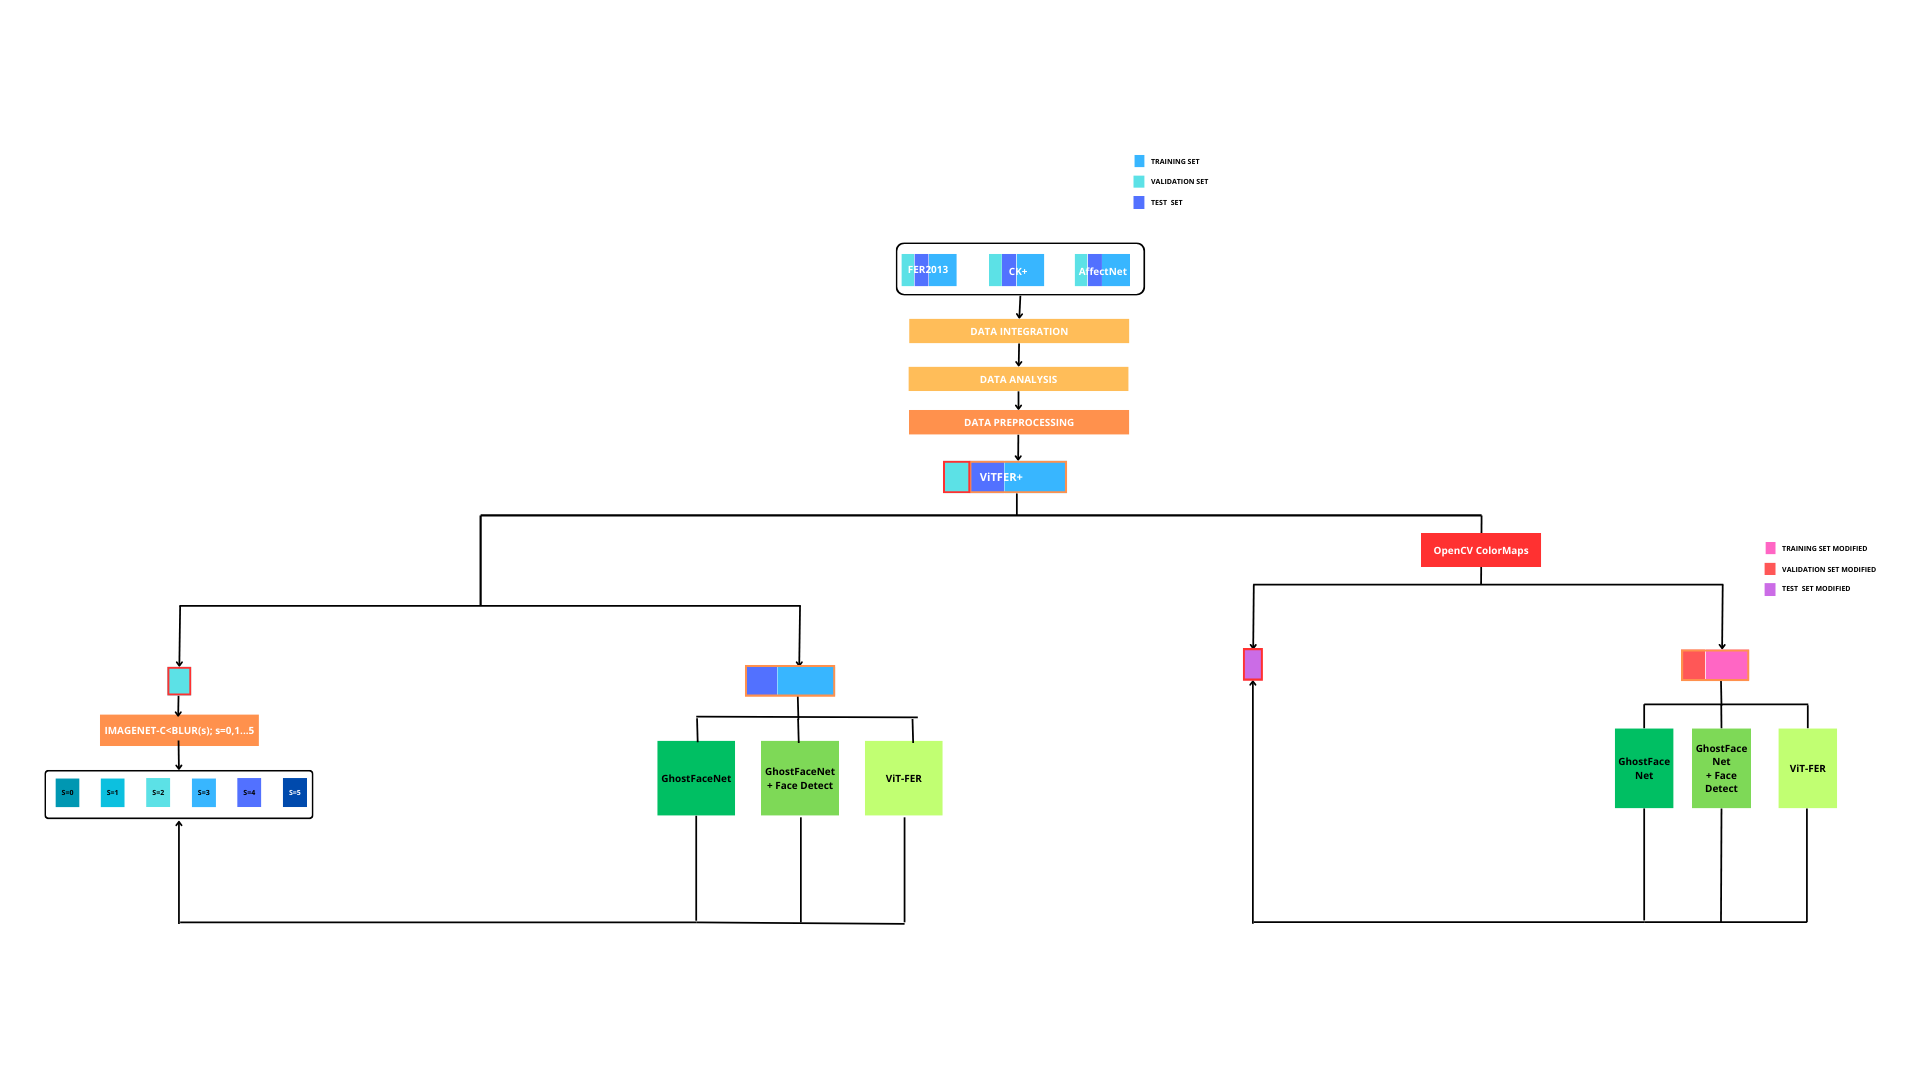
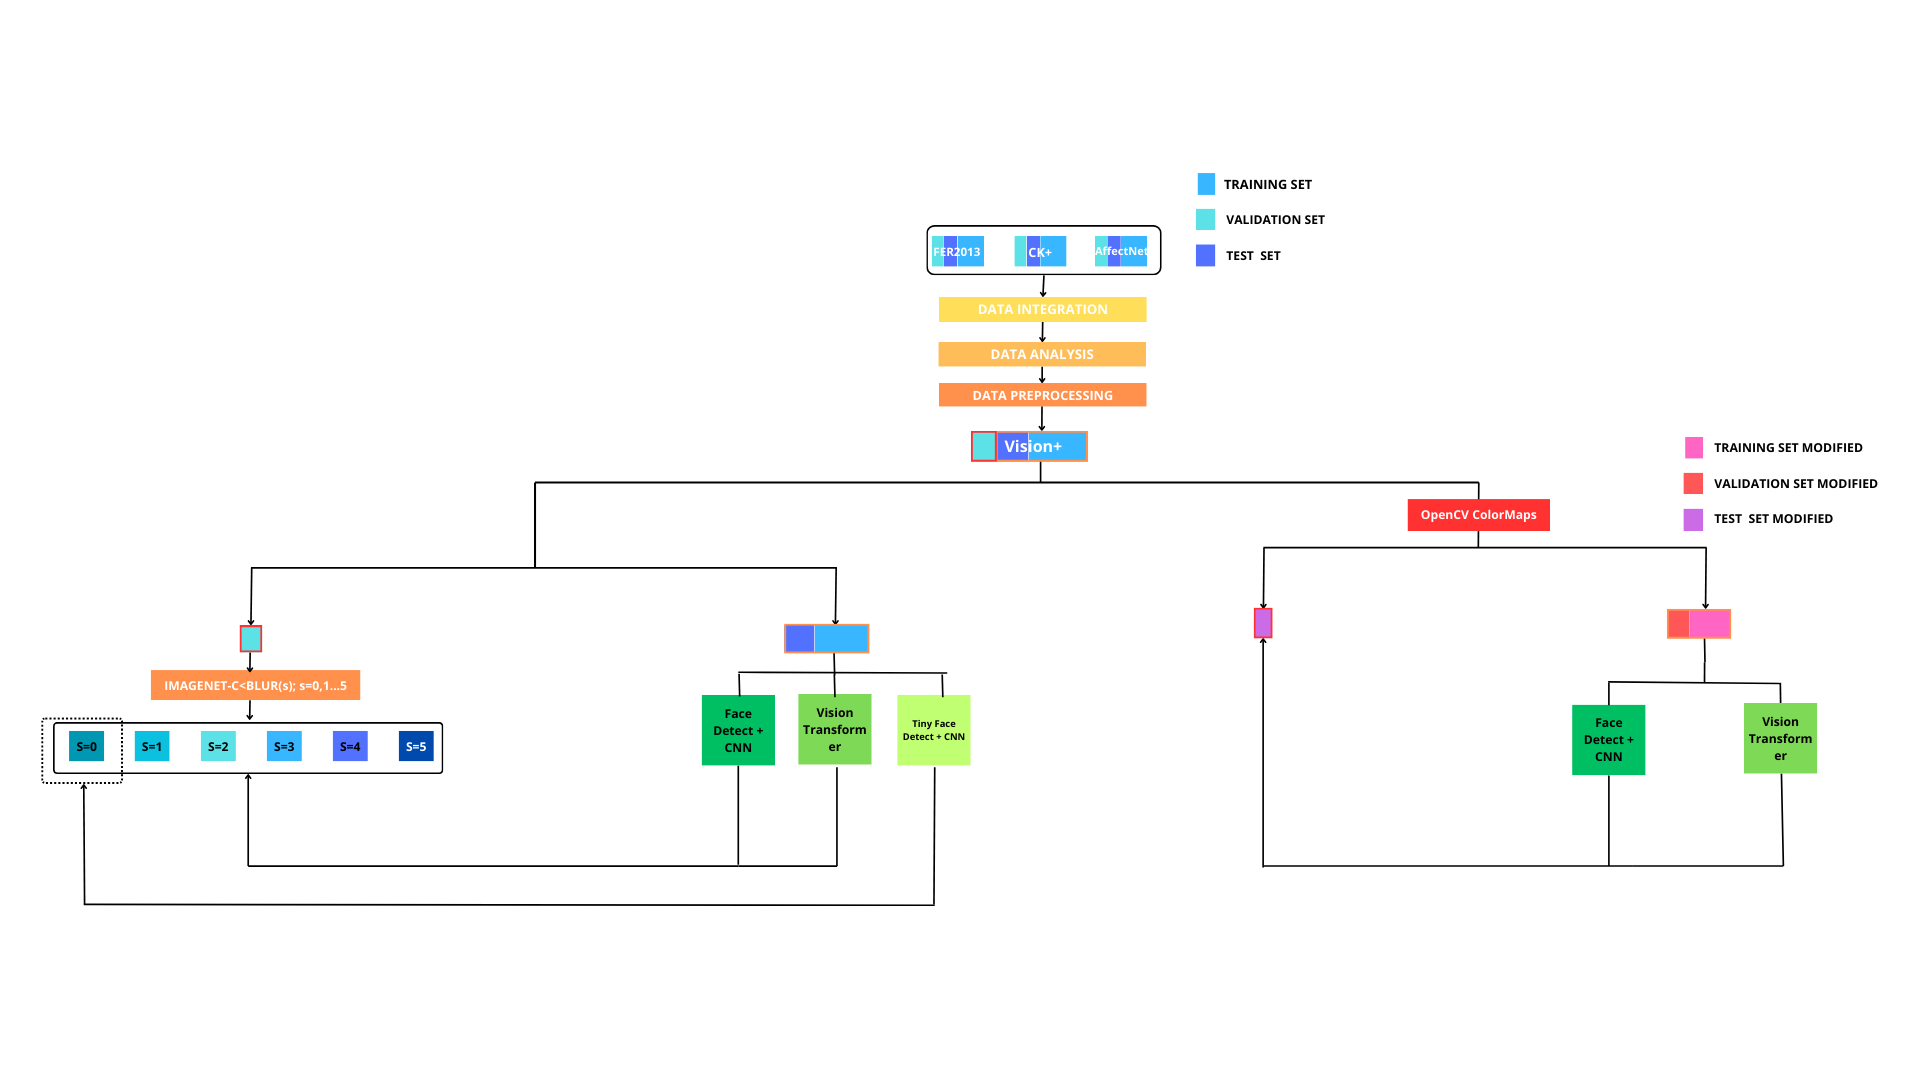
README.md file modifications

diff --git a/README.md b/README.md
@@ -10,6 +10,10 @@
 
 - Floris De Feyter: floris.defeyter@kuleuven.be
 
+## Project Scheme:
+
+![Project Scheme](Images/Project_Scheme.png)
+
 ## 1.- Business Understanding
 
 <div align="justify">In the expansive realm of human-machine interaction, the challenge of discerning human emotions and levels of attentiveness is crucial, particularly in critical settings such as driving. As we advance deeper into the era of automation and artificial intelligence, incorporating Facial Expression Recognition (FER) technology into automotive systems emerges as a promising strategy to boost safety and enhance communication between drivers and their vehicles. Utilizing the latest in computer vision and deep learning, FER technology can fundamentally transform our interaction with automotive technology, leading to safer roadways and more intuitive driving experiences.</div>
@@ -66,6 +70,31 @@ The models used in this project are pre-trained on the ImageNet dataset for obje
 
 ## 4.- Modelling
 
+### 4.1- Vision Transformer for Facial Emotion Recognition(ViT)
+![Vision Transformers](Images/ViT.gif)
+
 ## 5.- Evaluation
 
 ## 6.- Deployment
+
+## 7.- Project References
+
+This project is based on several research papers and code repositories that are pivotal for the advancement of attention mechanisms and robustness in artificial intelligence models. Below are the key references used:
+
+### 7.1 Academic Articles
+
+1. Vaswani, A., Shazeer, N., Parmar, N., Uszkoreit, J., Jones, L., Gomez, A. N., Kaiser, Ł., & Polosukhin, I. (2017). "Attention Is All You Need." *Neural Information Processing Systems (NIPS)*. Available at: [https://arxiv.org/abs/1706.03762](https://arxiv.org/abs/1706.03762)
+
+2. Dosovitskiy, A., Beyer, L., Kolesnikov, A., Weissenborn, D., Zhai, X., Unterthiner, T., ... & Houlsby, N. (2020). "An Image is Worth 16x16 Words: Transformers for Image Recognition at Scale." *International Conference on Learning Representations*. Available at: [https://openreview.net/forum?id=YicbFdNTTy](https://openreview.net/forum?id=YicbFdNTTy)
+
+3. Li, S., Zhao, W., & Roy-Chowdhury, A. K. (2021). "Vision Transformers for Facial Emotion Recognition." *Conference on Computer Vision and Pattern Recognition*. Link not available.
+
+### 7.2 GitHub Repositories
+
+- [Vision Transformers for Facial Emotion Recognition](https://github.com/kode-git/vfer): A repository implementing Vision Transformers for facial emotion recognition.
+
+- [Imagenet -C ](https://github.com/hendrycks/robustness): This repository contains implementations and techniques to enhance the robustness of machine learning models through data augmentation.
+
+
+
+
